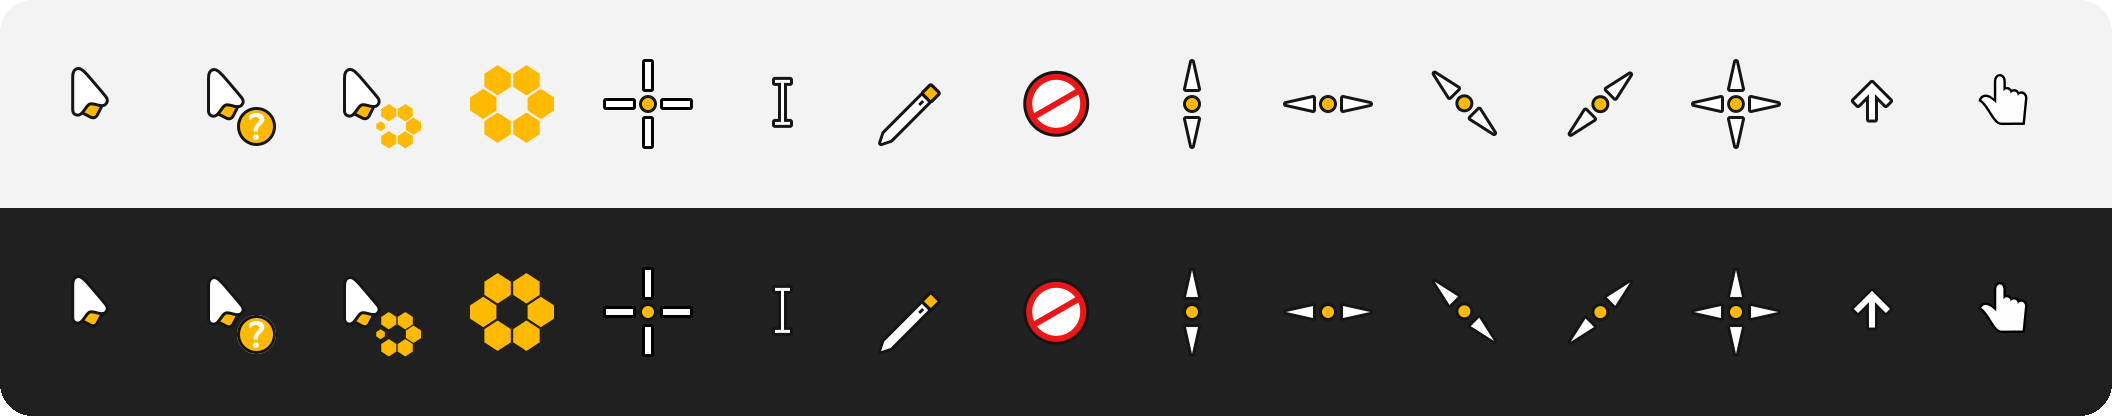
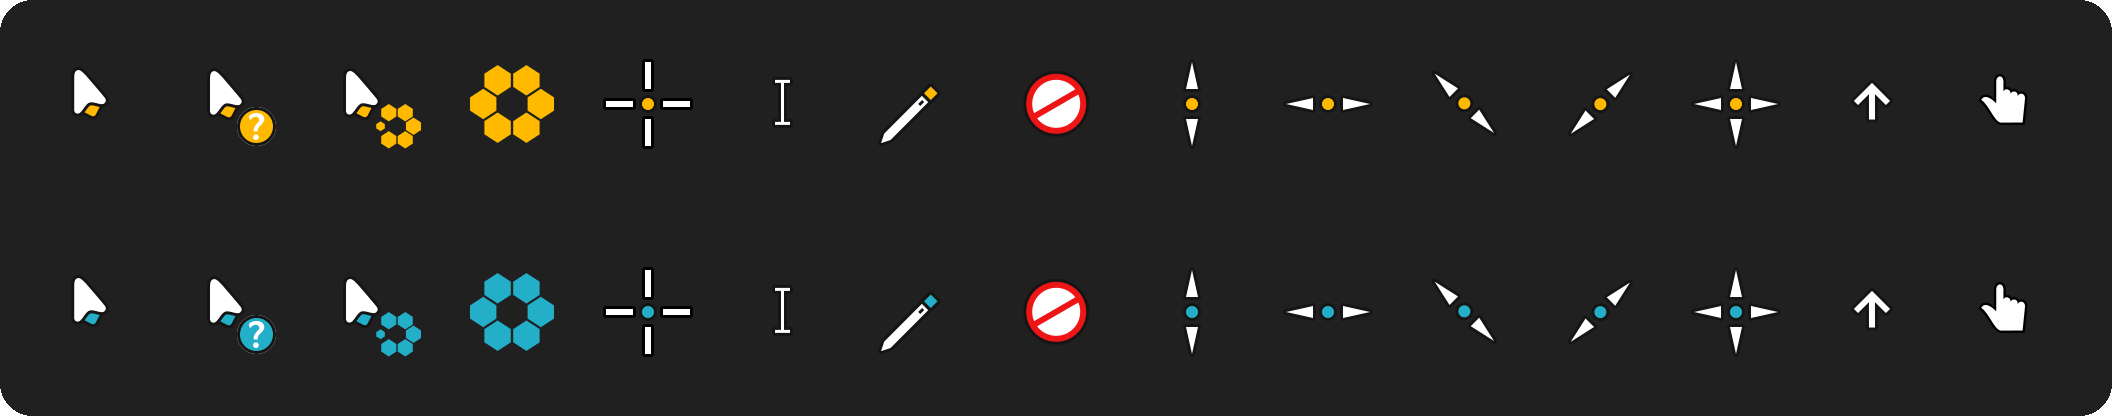
Add the Cyan variant (Future-cyan's gnome-look page)
src/svg-cyan is a pure recolour of src/svg (all 93 drawings render with identical
shapes; accent #ffba00 -> #23afc8) and is what the Future-cyan page ships, so both
pages' themes ship from this repo (ADR-9 amendment). README: variant table and the
existing cyan port's figures; CREDITS/PORT_STATUS: evidence.
Local: build + validate OK (2 variants), Windows loader 34/34, .ani timing 4/4.

diff --git a/README.md b/README.md
@@ -3,29 +3,38 @@
 # Future Cursors for Windows
 
 **Future cursors by yeyushengfan258 for Windows 11, rendered from the original vector artwork at every size Windows
-picks for your display scale and pointer size.**
+picks for your display scale and pointer size. Amber and Cyan variants.**
 
 [![Download](https://img.shields.io/github/v/release/hervad/future-cursors-w11-hidpi?label=download&style=flat-square&color=2ea44f)](https://github.com/hervad/future-cursors-w11-hidpi/releases/latest)
 [![Windows 11](https://img.shields.io/badge/Windows-11-0078D4?style=flat-square)](#install)
 [![License: GPL-3.0](https://img.shields.io/badge/license-GPL--3.0-blue?style=flat-square)](LICENSE)
 
-<img src="docs/preview.png" alt="All 15 Future cursors on a light and on a dark background" width="100%">
+<img src="docs/preview.png" alt="All 15 Future cursors in both variants: Amber (top) and Cyan (bottom)" width="100%">
 
 </div>
 
 ## Install
 
-1. **Download** `future-default-w11-hidpi-v….zip` from the [latest release](https://github.com/hervad/future-cursors-w11-hidpi/releases/latest)
+1. **Download** the zip for your colour from the [latest release](https://github.com/hervad/future-cursors-w11-hidpi/releases/latest)
    and extract it.
 2. **Right-click** `install.inf` in the extracted folder and choose **Install**, then approve the administrator prompt.
    On Windows 11, **Install** is under **Show more options**.
 3. **Apply:** Mouse Properties may open by itself; if it doesn't, press <kbd>Win</kbd>+<kbd>R</kbd> and run `main.cpl`.
-   On the **Pointers** tab, pick **Future W11 HiDPI** and click **OK**.
+   On the **Pointers** tab, pick the scheme and click **OK**.
 
 If Windows ever shows a different scheme after you change the pointer size, pick Future again in `main.cpl`.
 
-White cursors with a dark outline and amber accents, so they stay visible on light and dark backgrounds.
-Prefer cyan accents? See [Future-cyan Cursors for Windows](https://github.com/hervad/future-cyan-cursors-w11-hidpi).
+## Pick a variant
+
+| | Amber | Cyan |
+| --- | --- | --- |
+| **Original page** | [Future cursors](https://www.gnome-look.org/p/1457141) | [Future-cyan cursors](https://www.gnome-look.org/p/1465392) |
+| **Zip** | `future-default-w11-hidpi-v….zip` | `future-cyan-w11-hidpi-v….zip` |
+| **Scheme name** | Future W11 HiDPI | Future Cyan W11 HiDPI |
+
+Both are the same white cursors with a dark outline, so they stay visible on light and dark backgrounds; only the
+accent colour differs. The author publishes them as two themes from the same source, so they ship together here.
+Install both and switch whenever you like.
 
 ## Why they stay sharp
 
@@ -70,6 +79,10 @@ flips between images it has already decoded. Measured on Windows 11 25H2 against
 Before every release, GitHub Actions loads every file with the real Windows cursor loader at several sizes; a
 failure blocks the release.
 
+An earlier Windows port of Future-cyan (chiyuki0325, 2023) has one 32 px image per cursor, so Windows resamples it
+at every other pointer size and display scale; its animations run 24 and 22 frames at 33 ms (the original: 23 at
+30 ms).
+
 ## What's included
 
 - **All 17 Windows pointer roles:** normal, help, working in background, busy, precision, text, handwriting,
@@ -78,7 +91,7 @@ failure blocks the release.
   hand variants too).
 - **Animated busy and working cursors:** 23 frames per cycle, as in the original theme.
 - **Hotspots** from the original theme, scaled to every size.
-- `install.inf` and `uninstall.cmd`, plus the license file.
+- `install.inf` and `uninstall.cmd` for each variant, plus the license file.
 
 ## Tips
 
@@ -92,10 +105,11 @@ failure blocks the release.
 
 1. Run `uninstall.cmd` from the extracted folder. It removes the scheme from the list and opens Mouse Properties.
 2. Pick another scheme and click **OK**.
-3. Delete the cursor files from an administrator PowerShell:
+3. Delete the cursor files from an administrator PowerShell, for example:
 
 ```powershell
 Remove-Item "C:\Windows\Cursors\Future W11 HiDPI" -Recurse
+Remove-Item "C:\Windows\Cursors\Future Cyan W11 HiDPI" -Recurse
 ```
 
 ## Build from source
@@ -108,7 +122,7 @@ toolkit's README for how to get it on Windows or Linux.
 git clone --recurse-submodules https://github.com/hervad/future-cursors-w11-hidpi
 cd future-cursors-w11-hidpi
 python -m pip install "w11cursor @ git+https://github.com/hervad/w11-cursor-toolkit@v0.2.0"
-w11cursor build    theme.toml --out dist      # cursors + zip
+w11cursor build    theme.toml --out dist      # both variants + zips
 w11cursor validate theme.toml --dist dist     # re-read every file: sizes, hotspots, frames, timing
 ```
 
@@ -119,7 +133,8 @@ How each cursor maps to the original files is described in [`theme.toml`](theme.
 ## Credits
 
 The artwork is [Future cursors](https://github.com/yeyushengfan258/Future-cursors) by yeyushengfan258, also on
-[gnome-look](https://www.gnome-look.org/p/1457141). It is based on
+gnome-look as [Future cursors](https://www.gnome-look.org/p/1457141) and
+[Future-cyan cursors](https://www.gnome-look.org/p/1465392). It is based on
 [capitaine-cursors](https://github.com/keeferrourke/capitaine-cursors) by Keefer Rourke. This project only packages
 it for Windows. See [CREDITS.md](CREDITS.md) for every change from the original.
 

diff --git a/PORT_STATUS.md b/PORT_STATUS.md
@@ -1,16 +1,18 @@
 # Port status: Future cursors
 
-- gnome-look page: https://www.gnome-look.org/p/1457141 (store API, 2026-10-08: one download `Future-cursors.tar.gz`,
-  licence field empty)
+- gnome-look pages: https://www.gnome-look.org/p/1457141 (Future) and https://www.gnome-look.org/p/1465392
+  (Future-cyan) - store API 2026-10-08: one download each, licence field empty on both
 - upstream: https://github.com/yeyushengfan258/Future-cursors, submodule `upstream/` pinned to
   `587c14d2f5bd2dc34095a4efbb1a729eb72a1d36` (2021-07-16, latest commit)
 - upstream license: GPL-3.0. `LICENSE` = GPL v3 text (SHA-256 `a0ee7460…7aac0e`), copied byte-for-byte. No
   "only"/"or later" notice. README: "based on capitaine-cursors" (LGPL-3.0, Keefer Rourke) -> credited.
-- variants in scope: default (`src/svg`). The repo also has `svg-cyan` (= future-cyan-cursors-w11-hidpi, its own
-  page p/1465392), `svg-black` and `svg-dark` (own pages p/1519633 and p/1457884; not in this project's scope).
+- variants: default = amber (`src/svg`, page p/1457141) and cyan (`src/svg-cyan`, page p/1465392) - one repo for
+  both (maintainer, 2026-10-08; ADR-9 amendment). `svg-black` / `svg-dark` have their own pages (p/1519633,
+  p/1457884) and are not in scope.
 
 ## Status
-Builds and validates locally; Windows loader 17/17, .ani timing 2/2. Not yet a GitHub repo.
+Builds and validates locally (2 variants); Windows loader 34/34, .ani timing 4/4. Not yet a GitHub repo.
+Future-cyan merged in (2026-10-08): no separate future-cyan-cursors-w11-hidpi repo.
 
 ## Findings
 - **Canvas:** all 93 SVGs `viewBox="0 0 32 32"` (29 of them `32.000001` high) -> `design_canvas = 32`; upstream
@@ -31,7 +33,13 @@ Builds and validates locally; Windows loader 17/17, .ani timing 2/2. Not yet a G
 - **Sizes:** working.ani 468 KB, busy.ani 221 KB; largest image offset 11,985 of 65,535.
 - **Load cost** (Windows 11 25H2, same run as aero): static 0.16-0.26 ms at 32-96 px (aero 0.12-0.14), animated
   2.2-3.5 ms (aero 1.2-4.1), 31 ms at 256 px (aero 19); 0 GDI/USER handles leaked over 300 loads.
-- **Existing Windows port:** none for (amber) Future found; see future-cyan for chiyuki0325's cyan port.
+- **Cyan = recolour** (2026-10-08): svg-cyan has the same 93 file names; 25 byte-identical, 55 colour-only
+  (#ffba00/#ffb900 -> #23afc8), 13 re-saved by Inkscape (metadata/serialisation). Rendered at 128 px all 93 have
+  identical alpha (0 differing px). The store's cyan tarball (compiled Xcursor only) has accent exactly #23afc8 and
+  the same 4 sizes as upstream's build -> it is svg-cyan.
+- **Existing Windows port:** chiyuki0325/Future-cyan-cursors-Windows (7a5ee50, 2023-01-04), inspected read-only in
+  a temp folder (nothing copied): 15 files, each one 32 px BMP; wait 24 frames / progress 22 frames at 2 jiffies
+  (800 / 733 ms per cycle); hotspots (7,5) on not-allowed and the animations. None found for amber Future.
 
 ## Checklist
 - [x] Upstream pinned (submodule at a commit); latest commit confirmed
@@ -39,7 +47,7 @@ Builds and validates locally; Windows loader 17/17, .ani timing 2/2. Not yet a G
 - [x] design_canvas confirmed from SVG viewBox (32)
 - [x] All 17 roles mapped; diagonals in the preview; Pin/Person = link
 - [x] Hotspots from upstream config; two corrected with evidence
-- [x] `w11cursor build` + `validate` green locally; Test-LoadCursors 17/17; Get-AniFrameTiming 2/2
+- [x] `w11cursor build` + `validate` green locally; Test-LoadCursors 34/34; Get-AniFrameTiming 4/4
 - [x] README, CREDITS, preview image
 - [ ] Maintainer: preview and hotspot corrections confirmed by eye; installed and checked on screen
 - [ ] GitHub repo created; tag v0.1.0

diff --git a/CREDITS.md b/CREDITS.md
@@ -1,7 +1,7 @@
 # Credits
 
 **Artwork:** Future cursors by yeyushengfan258 - <https://github.com/yeyushengfan258/Future-cursors>
-(gnome-look: <https://www.gnome-look.org/p/1457141>). License: GPL-3.0. The repository's `LICENSE` is the GPL v3 text
+(gnome-look: <https://www.gnome-look.org/p/1457141>; cyan: <https://www.gnome-look.org/p/1465392>). License: GPL-3.0. The repository's `LICENSE` is the GPL v3 text
 with no "only" or "or later" notice anywhere; [LICENSE](LICENSE) here is that file, byte-for-byte
[1 lines of base64/hex data omitted]
 **Based on:** [capitaine-cursors](https://github.com/keeferrourke/capitaine-cursors) by Keefer Rourke (LGPL-3.0),
@@ -14,7 +14,9 @@ the latest). The gnome-look download has the same artwork with the hotspots from
 
 ## Changes from upstream
 
-- Re-rendered from the original SVGs (`src/svg/*.svg`, 32 px canvas) at every Windows cursor size, no resampling.
+- Re-rendered from the original SVGs (`src/svg/*.svg` for Amber, `src/svg-cyan/*.svg` for Cyan; 32 px canvas) at
+  every Windows cursor size, no resampling. Both variants ship from this one repo: same artwork, only the accent
+  colour differs (all 93 drawings render with identical shapes).
 - Drop shadow left out: upstream draws it as blurred dark copies of the shapes (elements with an SVG filter).
   Rendered with and without them, no artwork pixel changes in any shipped file. Windows draws its own pointer
   shadow (toolkit ADR-14).
